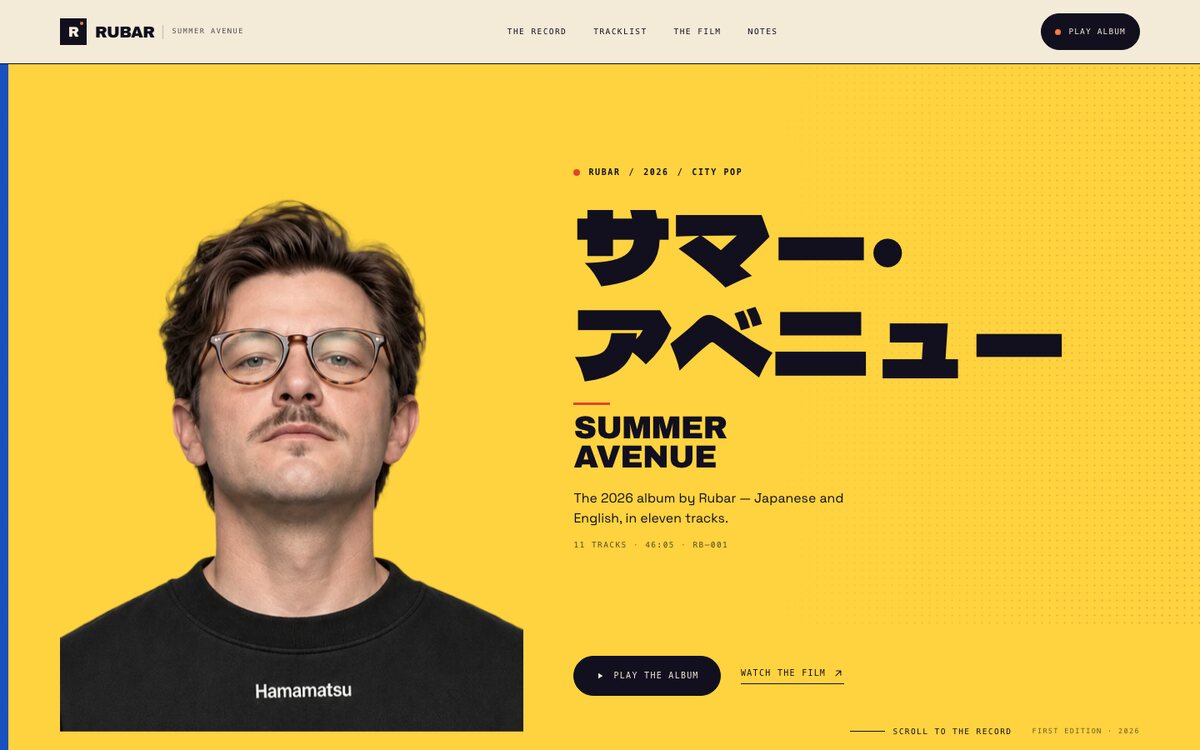
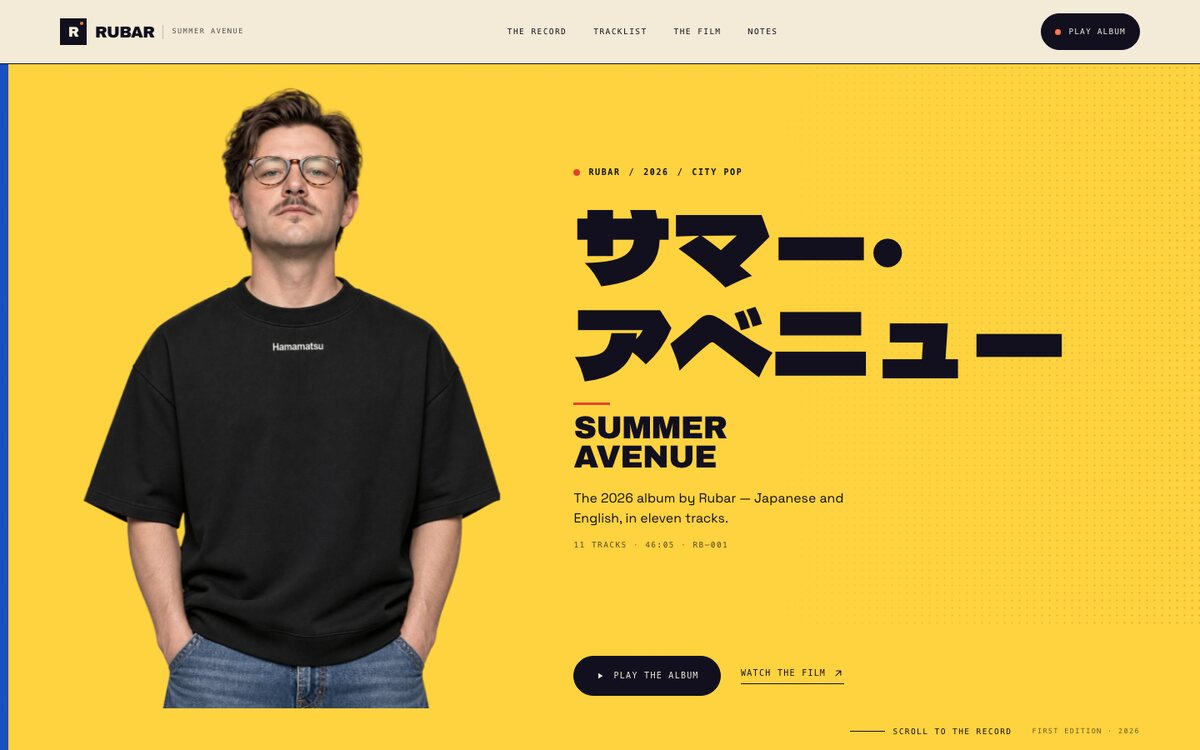
Show the complete hero portrait without cropping

Changed region(s): [[0.0308, 0.1227, 0.4625, 0.9813]]

diff --git a/assets/css/styles.css b/assets/css/styles.css
@@ -3378,7 +3378,7 @@ body.is-playing .play-pill:hover .play-pill__dot { background: var(--red); }
   display: flex;
   flex-direction: column;
   min-height: calc(100svh - var(--header-h));
-  overflow: hidden;
+  overflow: visible;
   background: var(--yellow);
   color: var(--ink);
   border-bottom: 1.5px solid var(--ink);
@@ -3431,15 +3431,16 @@ body.is-playing .play-pill:hover .play-pill__dot { background: var(--red); }
 
 .hero-poster__portrait {
   grid-area: portrait;
-  align-self: end;
+  align-self: stretch;
   justify-self: center;
   display: flex;
   align-items: flex-end;
   justify-content: center;
   width: 100%;
-  height: min(78vh, 760px);
-  min-height: 460px;
-  margin-bottom: -2vh;
+  height: 100%;
+  min-height: 0;
+  margin: 0;
+  overflow: visible;
 }
 
 .hero-poster__portrait picture {
@@ -3695,6 +3696,17 @@ body.is-playing .play-pill:hover .play-pill__dot { background: var(--red); }
   color: rgba(243, 234, 216, 0.95);
 }
 
+@media (min-width: 901px) {
+  .hero-poster {
+    height: calc(100svh - var(--header-h));
+    min-height: 0;
+  }
+
+  .hero-poster__portrait img {
+    max-height: calc(100svh - var(--header-h) - 74px);
+  }
+}
+
 @media (max-width: 900px) {
   .hero-poster__inner {
     grid-template-columns: 1fr;
@@ -3716,9 +3728,15 @@ body.is-playing .play-pill:hover .play-pill__dot { background: var(--red); }
   }
 
   .hero-poster__portrait {
-    height: clamp(240px, 42vh, 430px);
+    height: auto;
     min-height: 0;
     margin: 0;
+  }
+
+  .hero-poster__portrait img {
+    width: 100%;
+    height: auto;
+    object-fit: contain;
   }
 
   .hero-poster__actions {
@@ -3749,7 +3767,6 @@ body.is-playing .play-pill:hover .play-pill__dot { background: var(--red); }
 }
 
 @media (max-width: 380px) {
-  .hero-poster__portrait { height: clamp(225px, 36vh, 300px); }
   .hero-poster__lede { font-size: 0.9rem; }
 }
 

diff --git a/index.html b/index.html
@@ -33,7 +33,7 @@
   <link rel="preconnect" href="https://fonts.gstatic.com" crossorigin>
   <link href="https://fonts.googleapis.com/css2?family=Archivo+Black&amp;family=Dela+Gothic+One&amp;family=Noto+Sans+JP:wght@400;500;700&amp;family=Space+Grotesk:wght@400;500;600;700&amp;display=swap" rel="stylesheet">
 
-  <link rel="preload" as="image" href="assets/img/hero-rubar-black.webp" type="image/webp">
+  <link rel="preload" as="image" href="assets/img/hero-rubar-black-full.webp" type="image/webp">
   <link rel="stylesheet" href="assets/css/styles.css">
   <script>
     document.documentElement.classList.add('js');
@@ -167,8 +167,8 @@
 
         <div class="hero-poster__portrait">
           <picture>
-            <source type="image/webp" srcset="assets/img/hero-rubar-black.webp">
-            <img src="assets/img/hero-rubar-black.png" width="600" height="700" alt="Rubar, chin raised, wearing a black Hamamatsu T-shirt." fetchpriority="high" decoding="async">
+            <source type="image/webp" srcset="assets/img/hero-rubar-black-full.webp">
+            <img src="assets/img/hero-rubar-black-full.png" width="1024" height="1536" alt="Rubar, chin raised, wearing a black Hamamatsu T-shirt." fetchpriority="high" decoding="async">
           </picture>
         </div>
 

diff --git a/README.md b/README.md
@@ -61,7 +61,7 @@ The palette is documented in `assets/css/styles.css`:
 
 ![Summer Avenue — the interlude](docs/interlude-desktop.jpg)
 
-The first screen is an all-yellow Japanese-release poster. It uses the supplied **black Hamamatsu hero portrait** (1024×1536), cropped to a 600×700 head/shoulder portrait and matted against the yellow with no card, sleeve, vinyl, or frame. The Japanese title is live HTML in Dela Gothic One (`lang="ja"`); the English title is the second level; the portrait, title, and **Play the album** action share the first screen.
+The first screen is an all-yellow Japanese-release poster. It uses the supplied **black Hamamatsu hero portrait** (1024×1536) at full height, fully contained against the yellow with no crop, card, sleeve, vinyl, or frame. The Japanese title is live HTML in Dela Gothic One (`lang="ja"`); the English title is the second level; the portrait, title, and **Play the album** action share the first screen.
 
 The Record shows the new official cover flat — the 1254×1254 artwork has no Rubar wordmark; a hairline border and plain metadata are the only framing. The interlude remains the single collage accent: one diagonal red plane, a blue edge, the Japanese title, and the top-left front face from the new **4-face Hamamatsu sheet**, cropped and converted to B&W, captioned `RUBAR / 2026`. The Notes portrait remains the yellow-shirt portrait, with its `Hamamatsu` mark locally reduced.
 
@@ -110,7 +110,7 @@ open http://127.0.0.1:8765/tools/og.html
 - **Copy and sections:** `index.html`.
 - **Palette, type, layout:** `assets/css/styles.css`.
 - **Player behaviour:** `assets/js/main.js`.
-- **Cover / hero cutout / portrait / poster:** `assets/img/` — the hero uses `hero-rubar-black.png` with a `hero-rubar-black.webp` source; the collage uses the 660×470 `character-black-2026` crop. The full sheets are not shipped as web assets.
+- **Cover / hero cutout / portrait / poster:** `assets/img/` — the hero uses `hero-rubar-black-full.png` with a `hero-rubar-black-full.webp` source and no crop; the collage uses the 660×470 `character-black-2026` crop. The full sheets are not shipped as web assets.
 - **Film:** `assets/video/summer-avenue-film.mp4`, with `assets/img/film-poster.jpg`.
 - **Streaming / social / store links:** not wired yet. Add them to the outro section when the album is live on platforms. Release date is shown as **2026** only; update if a specific date is set.
 - **Custom domain:** add a `CNAME`, then update the canonical URL, Open Graph image URL, sitemap, and robots sitemap line.
